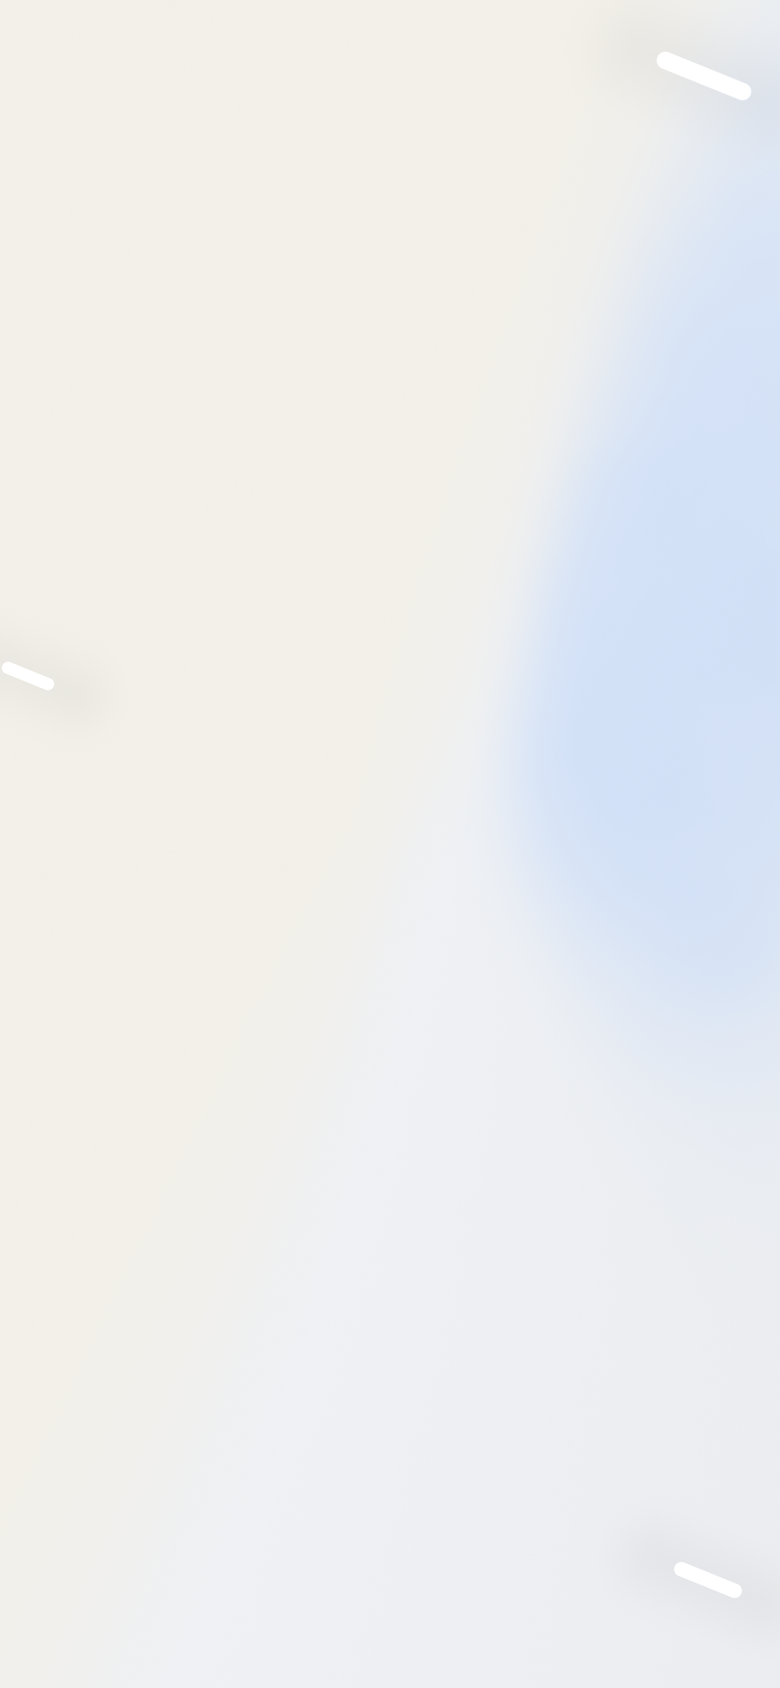
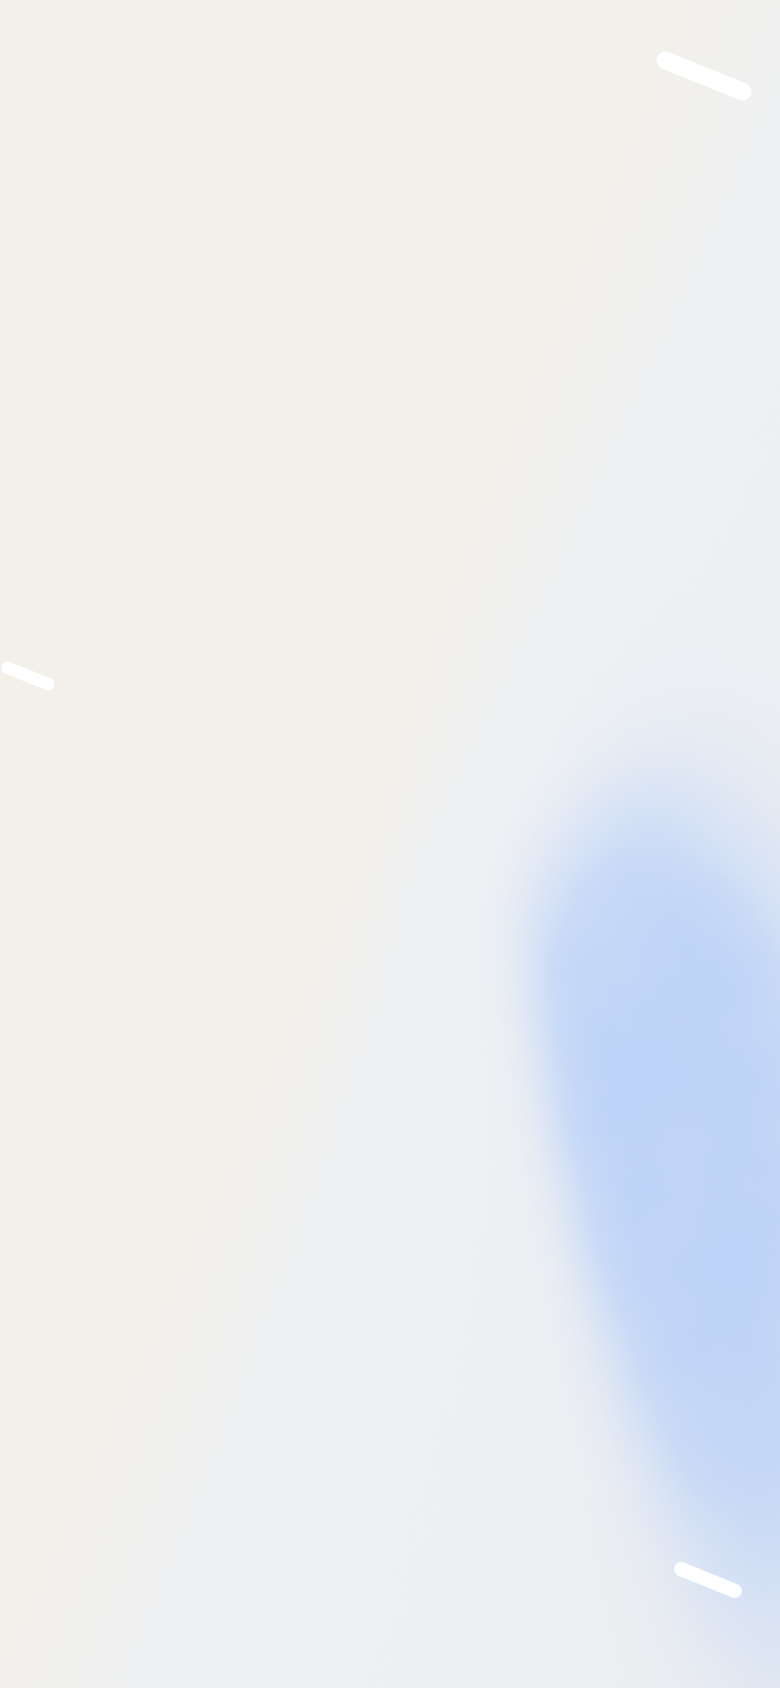
WIP: stone without shadow pockets, blue moved low on the right; unreviewed typography drafts (two-font, accent colour)
Claude-Session: https://claude.ai/code/session_01DRAcaZvypgnSaCTMdJvvGx

Changed region(s): [[0.6769, 0.5545, 1.0, 0.9242], [0.7077, 0.1848, 1.0, 0.4313]]

diff --git a/moonstone/lay-b.css b/moonstone/lay-b.css
@@ -1,0 +1,14 @@
+/* B: wordmark + one tagline top-left; solar system bleeds off the LEFT; headline pushed right with "free." as the hero; promise runs vertically beside the form */
+html.red #hookStep{display:block !important;position:relative;height:calc(100svh - 22px);min-height:0}
+html.red #hookStep .wedge{left:0;top:-2px}
+html.red #hookStep .wedge .s,html.red #hookStep .wedge .f{display:none}
+html.red #hookStep .wedge .t{font-size:54px}
+html.red #hookStep .wedge .t2{display:block;font-size:13.5px;font-weight:500;font-style:italic !important;line-height:1.3;margin-top:2px}
+html.red #hookStep .wedge .t3{display:block;font-size:10.5px;font-weight:600;letter-spacing:.22em !important;text-transform:uppercase !important;line-height:1.6;margin-top:2px}
+html.red #hookStep .hero-illustration{position:absolute !important;left:-92px;top:170px;margin:0 !important;transform:rotate(22deg) scale(1.85) !important}
+html.red #hookStep .r-free{position:absolute;left:0;right:0;top:372px;margin:0 !important;padding:0 !important;text-align:right !important;z-index:2}
+html.red #hookStep .r-free .a,html.red #hookStep .r-free .b{padding-right:20px}
+html.red #hookStep .k-rail{position:absolute;right:-6px;top:528px;writing-mode:vertical-rl;font-size:10.5px;font-weight:700;letter-spacing:.1em !important;text-transform:uppercase !important;white-space:nowrap;z-index:2}
+html.red #hookStep .k-above{display:none !important}
+html.red #hookStep .hero-email-wrap{position:absolute !important;left:4px;width:300px;bottom:44px;margin:0 !important;z-index:2}
+html.red #hookStep .k-below{justify-content:flex-start !important;text-align:left !important;margin-left:0 !important}

diff --git a/moonstone/moon.html b/moonstone/moon.html
@@ -25,19 +25,18 @@ void main(){
   // screen position in css px (390 wide): used to place the light on purpose, in the margins where no content sits
   vec2 px=vec2(gl_FragCoord.x/R.x*390.,(1.-gl_FragCoord.y/R.y)*844.);
   // ---- adularescence: one soft pale-blue sheen that follows the surface, kept to the upper-right corner
-  vec3 Hs=normalize(vec3(.405,.078,.911));
+  vec3 Hs=normalize(vec3(0.3916,-0.1150,0.9129));
   float cs=dot(N,Hs);
-  float band=exp(-pow((1.-cs)/.016,2.));
+  float band=exp(-pow((1.-cs)/.011,2.));
   band*=.88+.24*fbm(vec3(p*7.,3.));
-  vec3 sc=mix(vec3(.80,.88,1.0),vec3(.62,.77,1.0),clamp(band*1.4,0.,1.));
-  c=mix(c,sc,clamp(band,0.,1.)*.34);
+  vec3 sc=mix(vec3(.74,.84,1.0),vec3(.52,.70,1.0),clamp(band*1.4,0.,1.));
+  c=mix(c,sc,clamp(band,0.,1.)*.46);
   // ---- polish: slim glints at the rings' own angle (22 deg), placed on purpose in empty corners
   float ca=cos(.384),sa=sin(.384);
   vec2 d1=px-vec2(352.,38.);vec2 q1=vec2(d1.x*ca+d1.y*sa,-d1.x*sa+d1.y*ca);
   vec2 d2=px-vec2(354.,790.);vec2 q2=vec2(d2.x*ca+d2.y*sa,-d2.x*sa+d2.y*ca);
   vec2 d3=px-vec2(14.,338.);vec2 q3=vec2(d3.x*ca+d3.y*sa,-d3.x*sa+d3.y*ca);
   float pk=max(rbox(q1,vec2(0.),vec2(52.,18.),18.,24.),max(rbox(q2,vec2(0.),vec2(44.,15.),15.,20.),rbox(q3,vec2(0.),vec2(38.,13.),13.,18.)));
-  c*=1.-.035*pk;
   float g=max(rbox(q1,vec2(0.),vec2(24.,3.2),3.2,1.6),max(rbox(q2,vec2(0.),vec2(17.,2.6),2.6,1.4),rbox(q3,vec2(0.),vec2(13.,2.2),2.2,1.2)));
   c+=vec3(1.)*g*.85;
   c=min(c,vec3(1.));

diff --git a/moonstone/final2.css b/moonstone/final2.css
@@ -1,0 +1,12 @@
+/* two typefaces only: Alex Brush (script) and Fraunces. one accent colour: the stone's blue. */
+html.red body #hookStep .acc{color:#2b58d4 !important;-webkit-text-fill-color:#2b58d4 !important}
+html.red #hookStep .r-h1,html.red #hookStep .r-sys,html.red #hookStep .r-fcr{display:none !important}
+html.red #hookStep .wedge{position:absolute;left:0;top:-2px;z-index:3;background:none !important;clip-path:none !important;filter:none !important;width:auto;height:auto}
+html.red #hookStep .wedge .w{display:block;white-space:nowrap}
+html.red #hookStep .wedge .t{font-family:'Alex Brush',cursive !important;font-weight:400;font-size:56px;line-height:.98;letter-spacing:0 !important;margin-left:-2px}
+html.red #hookStep .wedge .s{font-size:11px;line-height:1.7;font-weight:600;letter-spacing:.22em !important;text-transform:uppercase !important}
+html.red #hookStep .wedge .f{font-size:15.5px;line-height:1.3;font-weight:500;font-style:italic !important;letter-spacing:0 !important}
+html.red #hookStep .r-free{font-size:inherit}
+html.red #hookStep .r-free .a{display:block;font-style:italic !important;font-weight:500 !important;font-size:30px;line-height:1;letter-spacing:-.005em !important;margin-bottom:-4px}
+html.red #hookStep .r-free .b{display:block;font-weight:800 !important;font-size:118px;line-height:.86;letter-spacing:-.035em !important}
+html.red #hookStep .k-above{letter-spacing:.14em !important}

diff --git a/moonstone/lay-a.css b/moonstone/lay-a.css
@@ -1,0 +1,5 @@
+/* A: the words themselves form the wedge (top-left); solar system bleeds off the right; headline with "free." as the hero; form returns to the middle */
+html.red #hookStep{display:block !important;position:relative;height:calc(100svh - 22px);min-height:0}
+html.red #hookStep .hero-illustration{position:absolute !important;left:96px;top:210px;margin:0 !important;transform:rotate(22deg) scale(1.55) !important}
+html.red #hookStep .r-free{position:absolute;left:0;top:372px;margin:0 !important;padding:0 !important;text-align:left !important;z-index:2}
+html.red #hookStep .hero-email-wrap{position:absolute !important;left:0;width:350px;bottom:44px;margin:0 !important;z-index:2}
